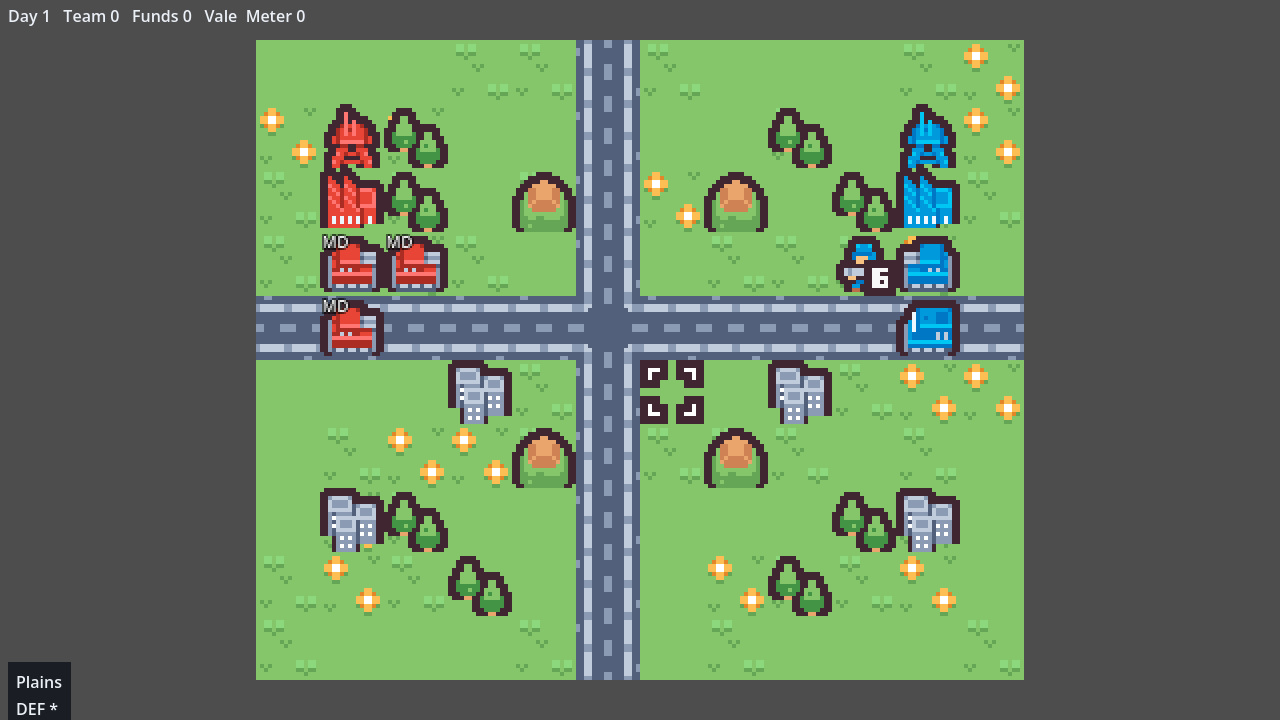
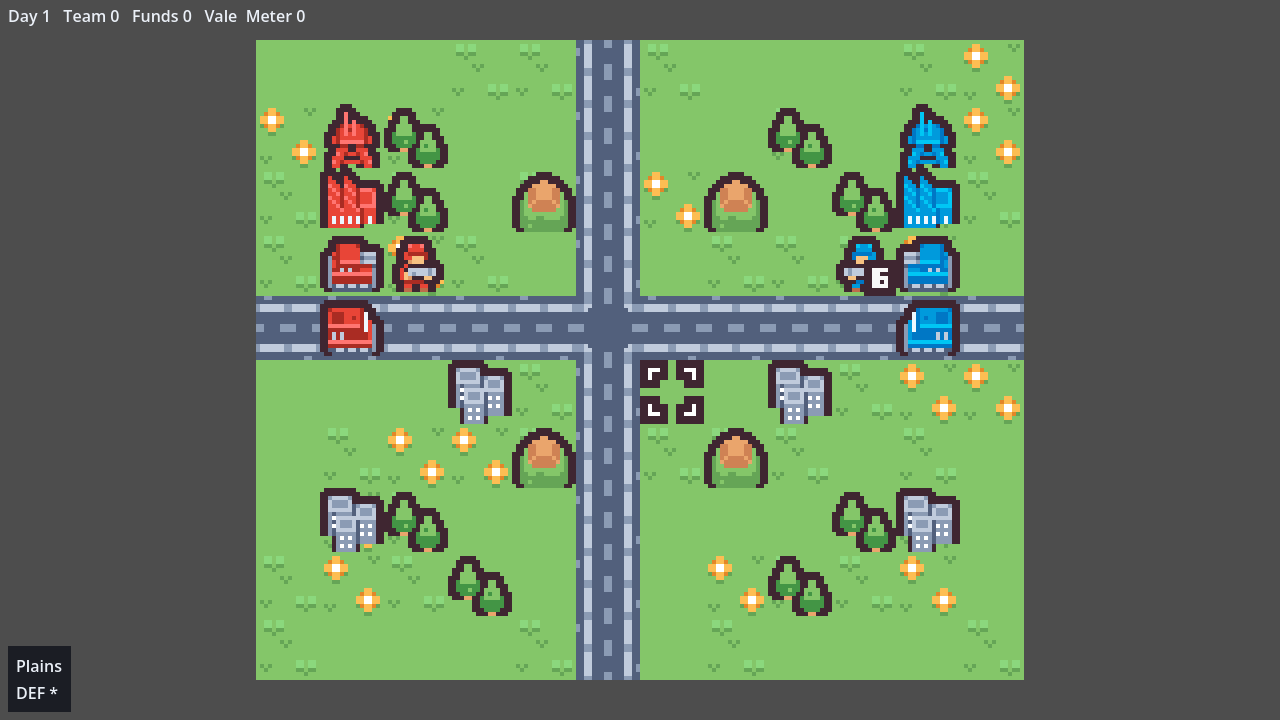
docs: cover the new maps, air units, saving and sound
README: new-match screen, map table, aircraft, fog and weather,
autosave, fresh screenshots, updated art and sound credits.
Architecture: file tree additions and the as-built AI and save notes.

Changed region(s): [[0.25, 0.3056, 0.375, 0.4889], [0.0, 0.8861, 0.0625, 1.0]]

diff --git a/README.md b/README.md
@@ -2,9 +2,9 @@
 
 [![CI](https://github.com/Quesadius/preemptive-peril/actions/workflows/ci.yml/badge.svg)](https://github.com/Quesadius/preemptive-peril/actions/workflows/ci.yml)
 
-A turn-based grid tactics game built in Godot 4 with GDScript. Command an army of infantry, tanks, artillery and transports, capture cities for income, build reinforcements at factories, and break the enemy commander before they break you.
+A turn-based grid tactics game built in Godot 4 with GDScript. Command an army of infantry, tanks, artillery, transports and aircraft, capture cities for income, build reinforcements at factories and airports, and take the enemy's headquarters before they take yours.
 
-**Status:** playable against the computer on one map, *Crossroads*, with pixel art from Kenney's Tiny Battle pack. There is no audio yet.
+**Status:** playable against the computer on three maps, with optional fog of war and weather, autosave, pixel art from Kenney's Tiny Battle pack, and synthesized sound effects. There is no music yet.
 
 ![The Crossroads map at the start of a match: red's army and base on the left, blue's on the right, neutral cities in between](docs/screenshots/crossroads.png)
 
@@ -21,17 +21,33 @@ To run it locally you need [Godot](https://godotengine.org/) 4.6 or newer (CI us
   godot --path .
   ```
 
-- **The small code-built demo map** instead of Crossroads:
+- **Straight into a battle**, skipping the menu (add `++ demo` for the small code-built demo map):
 
   ```bash
-  godot --path . -s tools/preview_battle.gd ++ demo
+  godot --path . -s tools/preview_battle.gd
   ```
+
+## Starting a match
+
+![The new-match screen: three maps to choose from, toggles for fog of war, random weather and sound, and a Start button](docs/screenshots/setup.png)
+
+The game opens on the new-match screen. Pick a map, switch **fog of war**, **random weather** and **sound** on or off, and start; your choices are remembered. Arrow keys and Enter, the mouse, and touch all work here.
+
+| Map | Size | Notes |
+|---|---|---|
+| Crossroads | 12×10 | The original: two bases either side of a road junction |
+| Gauntlet | 8×12 | Tall and narrow, sized to fit a phone held upright |
+| Highlands | 18×12 | The big one, with an airport in each base and two more to fight over |
+
+![Highlands: red's base top-left, blue's bottom-right, a winding road, and two unclaimed airports in the middle](docs/screenshots/highlands.png)
+
+The match is **saved after every action**. Close the game — or the browser tab — and the new-match screen offers **Continue** next time. To leave a match yourself, confirm on any empty tile and choose **Quit to menu**.
 
 ## How to play
 
 You command red (CO Vale). The computer commands blue (CO Rook) and plays its turn automatically after you end yours.
 
-![A red medium tank selected: its movement range is shaded and a blue arrow traces its route to the crossroads](docs/screenshots/crossroads_move.png)
+![A red infantry selected: its movement range is shaded and a blue arrow traces its route to the crossroads](docs/screenshots/crossroads_move.png)
 
 *Moving a unit: the shaded tiles are its range and the arrow is the route you've traced. The blue infantry's "6" badge shows a damaged unit's HP; full-strength units show no badge.*
 
@@ -58,12 +74,16 @@ What confirming (**Enter** or a click) does depends on what is under the cursor:
 
 - **One of your units** shows where it can move (blue). Trace a route with the cursor, then confirm a destination to open its orders: Wait, Attack, Capture, Load, Unload, Supply or Join, whichever apply there. Attacking snaps the cursor to a target and shows the damage forecast. A unit turns grey once it has acted.
 - **An enemy unit** shows where it can move (blue) and everything it could hit next turn (red).
-- **An empty factory you own** opens the build menu.
-- **Any other empty tile** opens the system menu: **End Turn**, plus your CO power once its meter is full.
+- **An empty factory or airport you own** opens the build menu.
+- **Any other empty tile** opens the system menu: **End Turn**, **Quit to menu**, plus your CO power once its meter is full.
 
 **Economy and capture.** Each property you own pays 1,000 funds at the start of your turn, and your units standing on your properties are repaired and resupplied. Infantry and mechs capture cities, factories and HQs. A property needs 20 capture points, and each turn adds the capturing unit's displayed HP, so healthy units capture faster.
 
-**Winning.** Each side has an HQ, the gold tile in its home base. Capture the enemy HQ and you win on the spot. A player is also eliminated when they have no units left and no factory to rebuild from. When the match ends, a Victory or Defeat message appears; press **Enter** to play again.
+**Aircraft.** Airports build Copters and Bombers. Flying units cross any terrain at full speed and get no defence from it, forests can't hide them, and they burn fuel every turn — land on an airport you own to refuel, because an aircraft that starts its turn with an empty tank crashes. Copters hunt vehicles and infantry; Bombers flatten anything on the ground but can't touch other aircraft. Anti-Air is the answer to both.
+
+**Fog and weather.** Under fog of war you see only what your units and properties can see; forests hide ground units until you're next to them, and moving into an unseen enemy springs an ambush that ends the move. Random weather brings spells of rain or snow that slow movement.
+
+**Winning.** Each side has an HQ, the domed building in its home base. Capture the enemy HQ and you win on the spot. A player is also eliminated when they have no units left and nowhere to build more. When the match ends, a Victory or Defeat message appears; press **Enter** or click to go back to the new-match screen.
 
 ## Development
 
@@ -83,10 +103,11 @@ input -> Action -> Rules.validate() -> Rules.apply() -> Array[GameEvent] -> anim
 | `core/` | Game state, actions, events, and the rules modules (movement, combat, fog, economy, …) |
 | `ai/` | The computer opponent and its scoring maps |
 | `data/` | Resource schemas plus the unit, terrain, CO, ruleset and map data |
-| `persistence/` | JSON saves and deterministic replay |
-| `presentation/`, `ui/` | Rendering, input, animation, HUD and menus |
+| `persistence/` | JSON saves, deterministic replay, the map catalog |
+| `presentation/`, `ui/` | Rendering, input, animation, sound synthesis, HUD, menus and the new-match screen |
 | `autoload/` | Settings, audio and scene routing |
-| `tools/` | Test runner, purity check, map-editing helpers, preview boot script |
+| `assets/` | The art pack: sprite sheet plus the file mapping it to terrain and units |
+| `tools/` | Test runner, purity check, map-editing helpers, sprite generator, preview boot script |
 | `tests/` | gdUnit4 tests, mirroring `core/` |
 | `docs/` | Architecture outline, Godot notes, exporting guide |
 
@@ -110,4 +131,6 @@ If `godot` isn't on your `PATH`, point the script at it with `GODOT_BIN=/path/to
 
 Preemptive Peril is released under the [MIT License](LICENSE), copyright Quesadius. The bundled [gdUnit4](addons/gdUnit4) test framework keeps its own MIT license.
 
-Art: [Tiny Battle](https://kenney.nl/assets/tiny-battle) by [Kenney](https://www.kenney.nl), released under [CC0](assets/tiny_battle/License.txt). Medium tanks and rockets borrow the tank and artillery sprites for now, marked *MD* and *RK*.
+Art: [Tiny Battle](https://kenney.nl/assets/tiny-battle) by [Kenney](https://www.kenney.nl), released under [CC0](assets/tiny_battle/License.txt). The Medium Tank and Rockets sprites are this project's own edits of the pack's tank and truck, generated by [`tools/art/extend_tiny_battle.gd`](tools/art/extend_tiny_battle.gd).
+
+Sound effects are synthesized in code ([`presentation/sfx_synth.gd`](presentation/sfx_synth.gd)); there are no audio files.

diff --git a/docs/architecture.md b/docs/architecture.md
@@ -119,6 +119,8 @@ res://
 │   ├── camera_rig.gd
 │   ├── pointer_input.gd             # mouse/touch → cursor, confirm/cancel, camera pan, pinch
 │   ├── screen_fit.gd                # web/touch: logical canvas sized to the device
+│   ├── sfx.gd / sfx_synth.gd        # one-line sound calls; effects synthesized in code
+│   ├── main.gd                      # root: new-match screen <-> a fresh Battle per match
 │   └── battle_animation.tscn        # optional cut-in combat animation
 │
 ├── ui/
@@ -131,6 +133,7 @@ res://
 │   ├── menus/action_menu.tscn        # Wait / Attack / Capture / Load / Join / Supply
 │   ├── menus/build_menu.tscn
 │   ├── menus/pause_menu.tscn
+│   ├── screens/match_setup.gd       # new-match screen (code-built): map, fog, weather, sound, continue
 │   ├── screens/title.tscn
 │   ├── screens/map_select.tscn
 │   ├── screens/co_select.tscn
@@ -140,10 +143,12 @@ res://
 ├── persistence/
 │   ├── save_game.gd                 # initial state + action log
 │   ├── replay.gd
+│   ├── map_catalog.gd               # the shipped maps, by name and by key
 │   └── settings.gd
 │
 ├── tools/
 │   ├── map_editor/map_editor.tscn   # @tool or standalone in-game editor
+│   ├── art/extend_tiny_battle.gd    # regenerates the extended sprite sheet
 │   └── ci/check_core_purity.gd      # lint: fails build if core/ touches Node
 │
 ├── autoload/
@@ -635,6 +640,8 @@ Build it in three stages, and don't skip to stage three:
 
 **Stage 2 — add maps.** A `ThreatMap` (damage each tile would take if occupied) and an `InfluenceMap` (territory control) turn the scoring from "attack whatever's adjacent" into something that positions sensibly and retreats damaged units.
 
+**As built, on top of stage 2.** `SimpleAI` also: pulls capturers toward the enemy HQ and scores finishing its capture above everything; treats enemy capturers near its own HQ as raiders (hit them, or park a unit on the HQ); keeps a quota of capturers and builds an answer to enemy types nothing it owns can hurt; never buys what can neither fight nor capture; flies fuel-burning units home before they run dry; presses when its army is worth at least 80% of the visible enemy's (without this, evenly matched copies stare at each other forever); and keeps units off tiles they would block — its own factories, and for non-capturers, properties still to be taken. `tests/golden/simple_ai_tempo_test.gd` plays AI vs AI on every shipped map and fails if a match doesn't finish.
+
 **Stage 3 — search, if needed.** Full-turn lookahead has a brutal branching factor: 15 units × ~200 reachable tiles × ~4 verbs is ~10⁴ per unit and the turn is a permutation of all of them. Realistic approaches are unit-ordered greedy with limited rollout, or Monte Carlo over the top-k candidate action sequences. Time-slice with a coroutine so the main thread stays responsive; only reach for `WorkerThreadPool` if profiling demands it, and remember the web-export threading caveat.
 
 `AIProfile` as a Resource gives you difficulty levels as data — aggression, risk tolerance, build preferences, whether it uses CO powers optimally — without branching code.
@@ -665,6 +672,8 @@ Save files are tiny and human-readable, replays are free, and desyncs become det
 **Undo:** snapshot `GameState.clone()` at turn start, pop the last action, replay the rest. ⚠ With fog of war this leaks information — undoing a move that revealed an enemy lets you keep the knowledge. Either disable undo in fog matches or restrict it to actions that revealed nothing. Decide this early; it affects the UI.
 
 Guard `version` and reject mismatches loudly. A save format that silently half-loads is worse than one that refuses.
+
+**As built (format version 2).** The save also carries the fog and weather options and a `digest`: a checksum of the state its log should replay to (`Replay.digest`). `Replay.run` refuses a log that is illegal *or* lands on a different state — the case where rules or data changed since it was written and every action still happens to be legal. `Battle` records each applied action and autosaves to `user://autosave.json`; the new-match screen offers Continue only while that save still replays, and deletes it otherwise. A decided match removes its save.
 
 ---
 
@@ -732,5 +741,5 @@ These are cheap to decide now and expensive to change later:
 4. **Map size ceiling.** Affects whether naive algorithms are fine. Under 40×40, they are.
 5. **Multiplayer ambitions.** The action-log design makes hotseat trivial and networked play tractable, but only if you never let presentation mutate state. Decide now whether you're holding that line.
 6. **Art pipeline.** 16×16 or 32×32 tiles, team recoloring via palette swap shader or per-team sprite sheets. Palette swapping is far less asset work and worth setting up early.
-   **Decided:** 16×16 sheet art, drawn at 2× into the 32px world tiles so no world math changes. An `ArtSet` resource maps terrain/unit keys to sheet tiles, with per-team rows from the sheet itself (Tiny Battle ships each army in five colors), so no recolor shader. Without an ArtSet, or for any key it doesn't map, the flat-color placeholders draw — the tests run that way.
+   **Decided:** 16×16 sheet art, drawn at 2× into the 32px world tiles so no world math changes. Units the pack lacks (Medium Tank, Rockets) are drawn from its own pixels into two extra sheet columns by `tools/art/extend_tiny_battle.gd`. An `ArtSet` resource maps terrain/unit keys to sheet tiles, with per-team rows from the sheet itself (Tiny Battle ships each army in five colors), so no recolor shader. Without an ArtSet, or for any key it doesn't map, the flat-color placeholders draw — the tests run that way.
 ```
